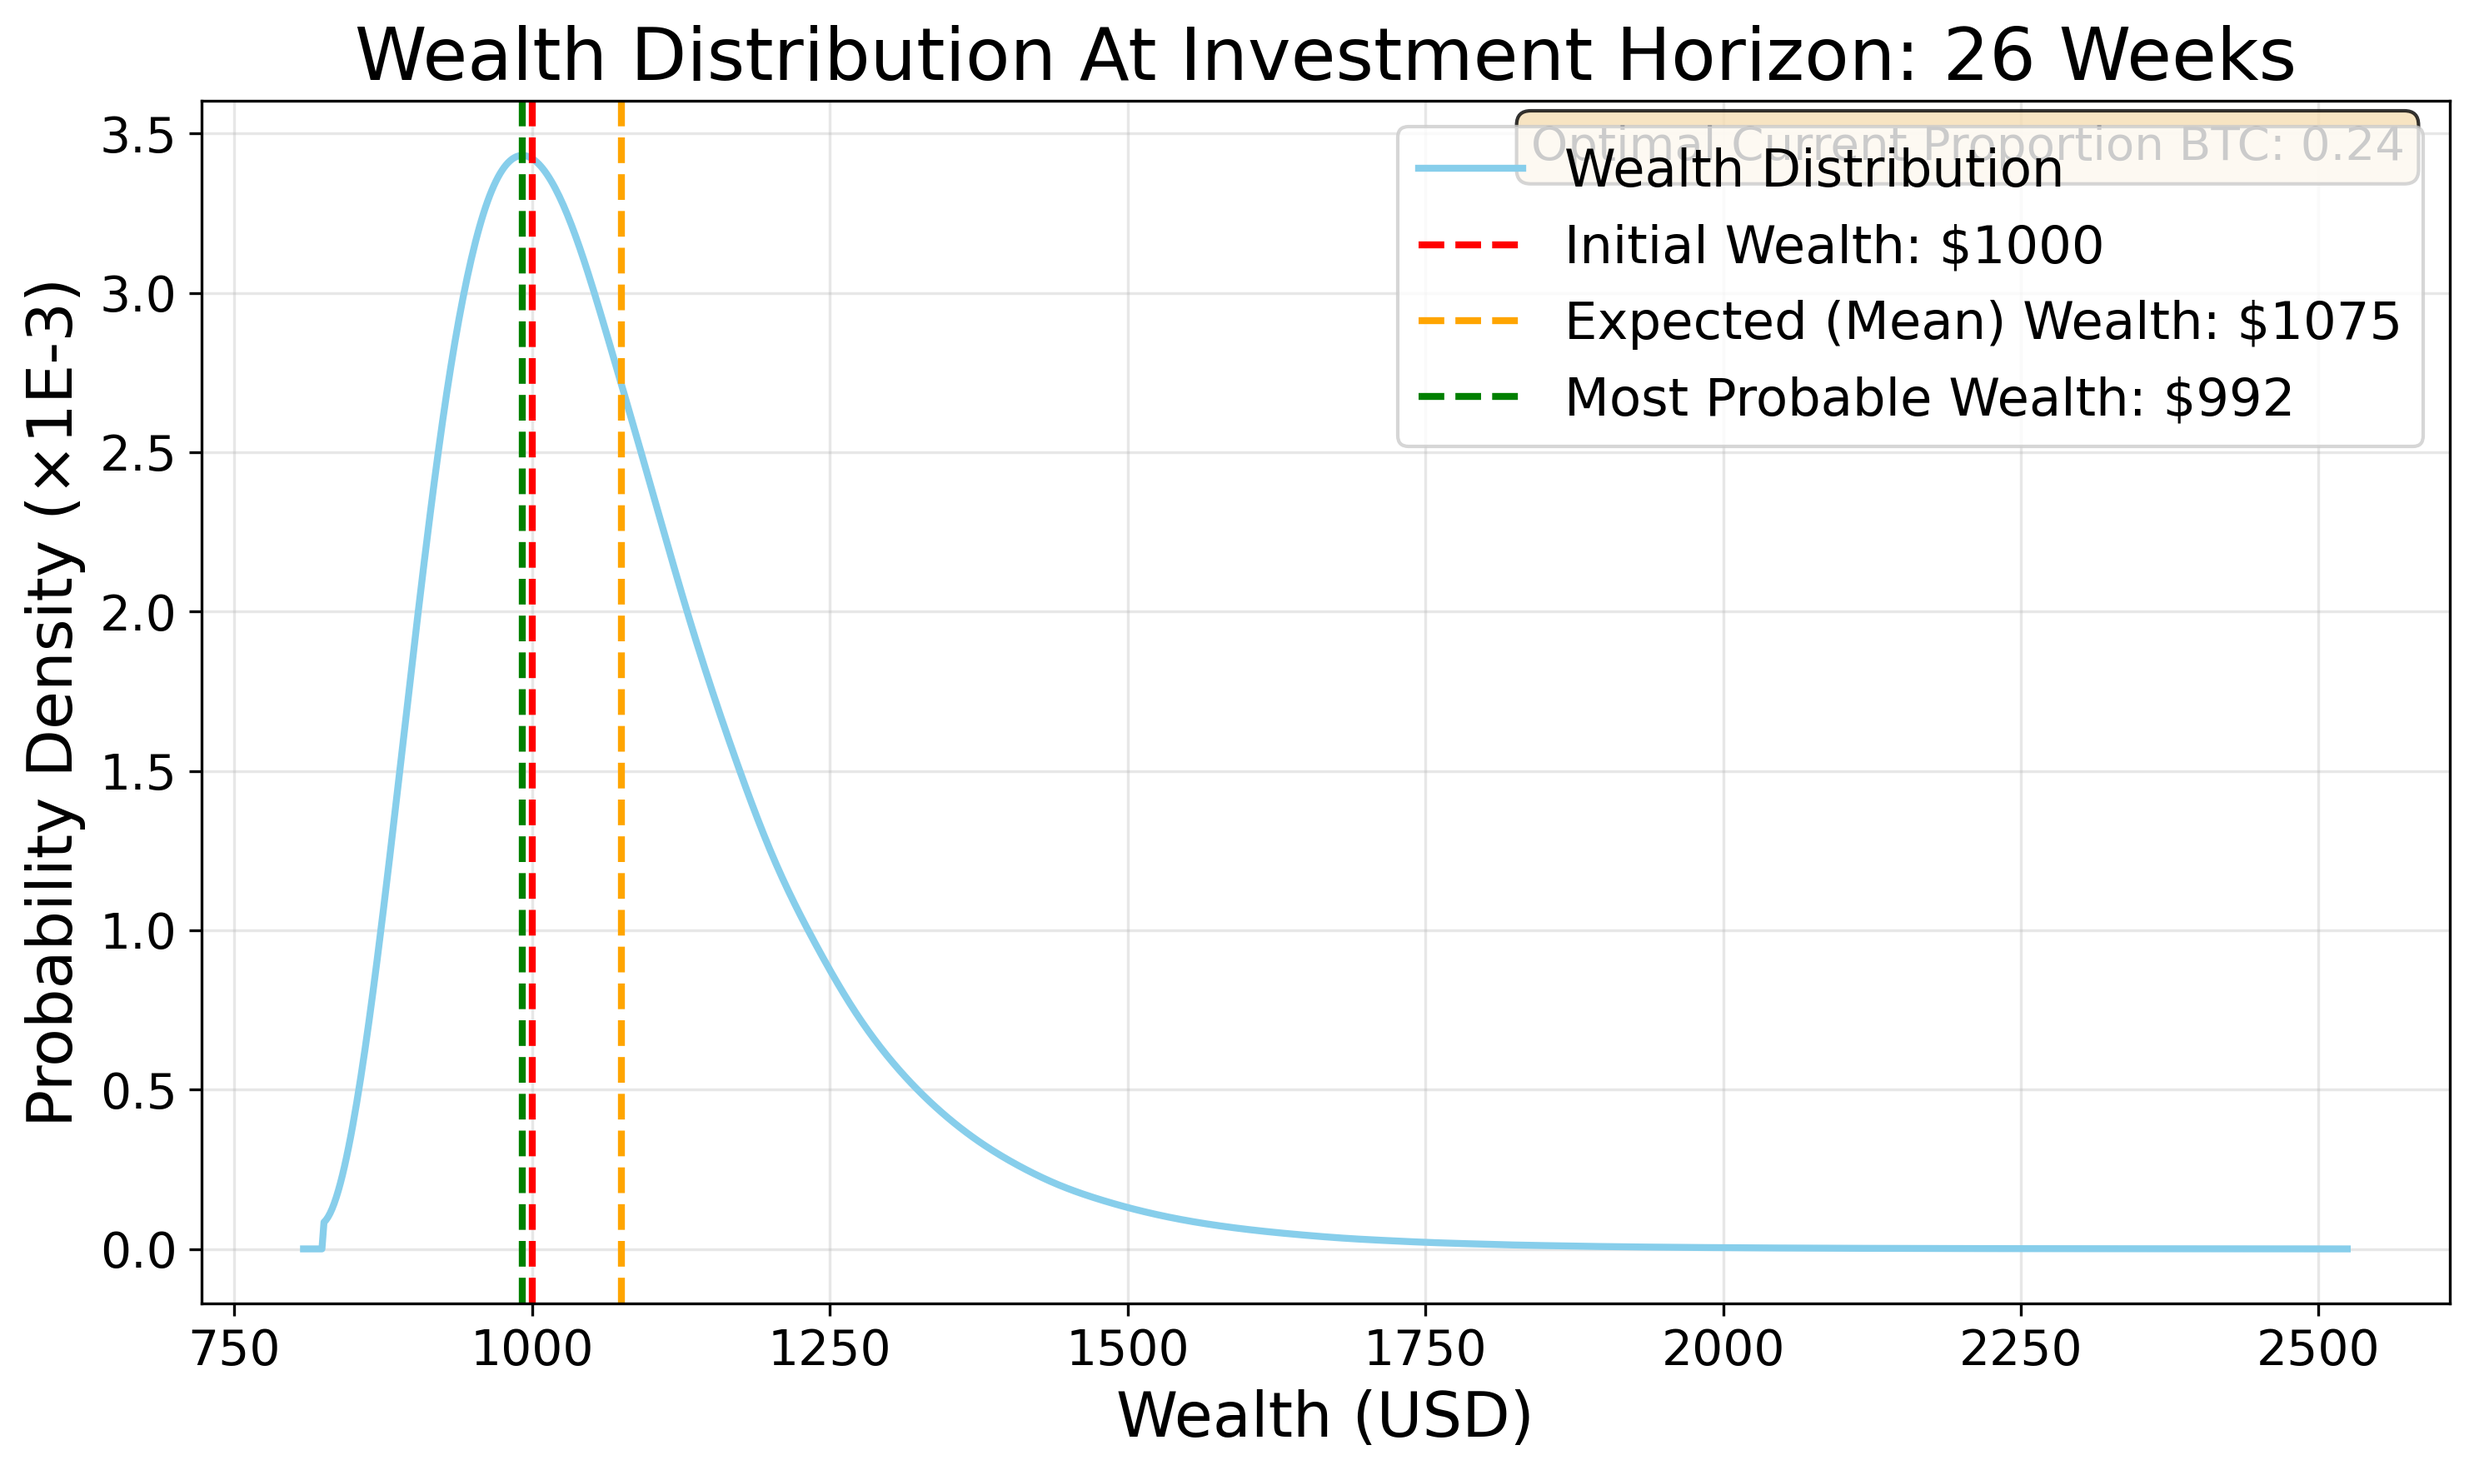
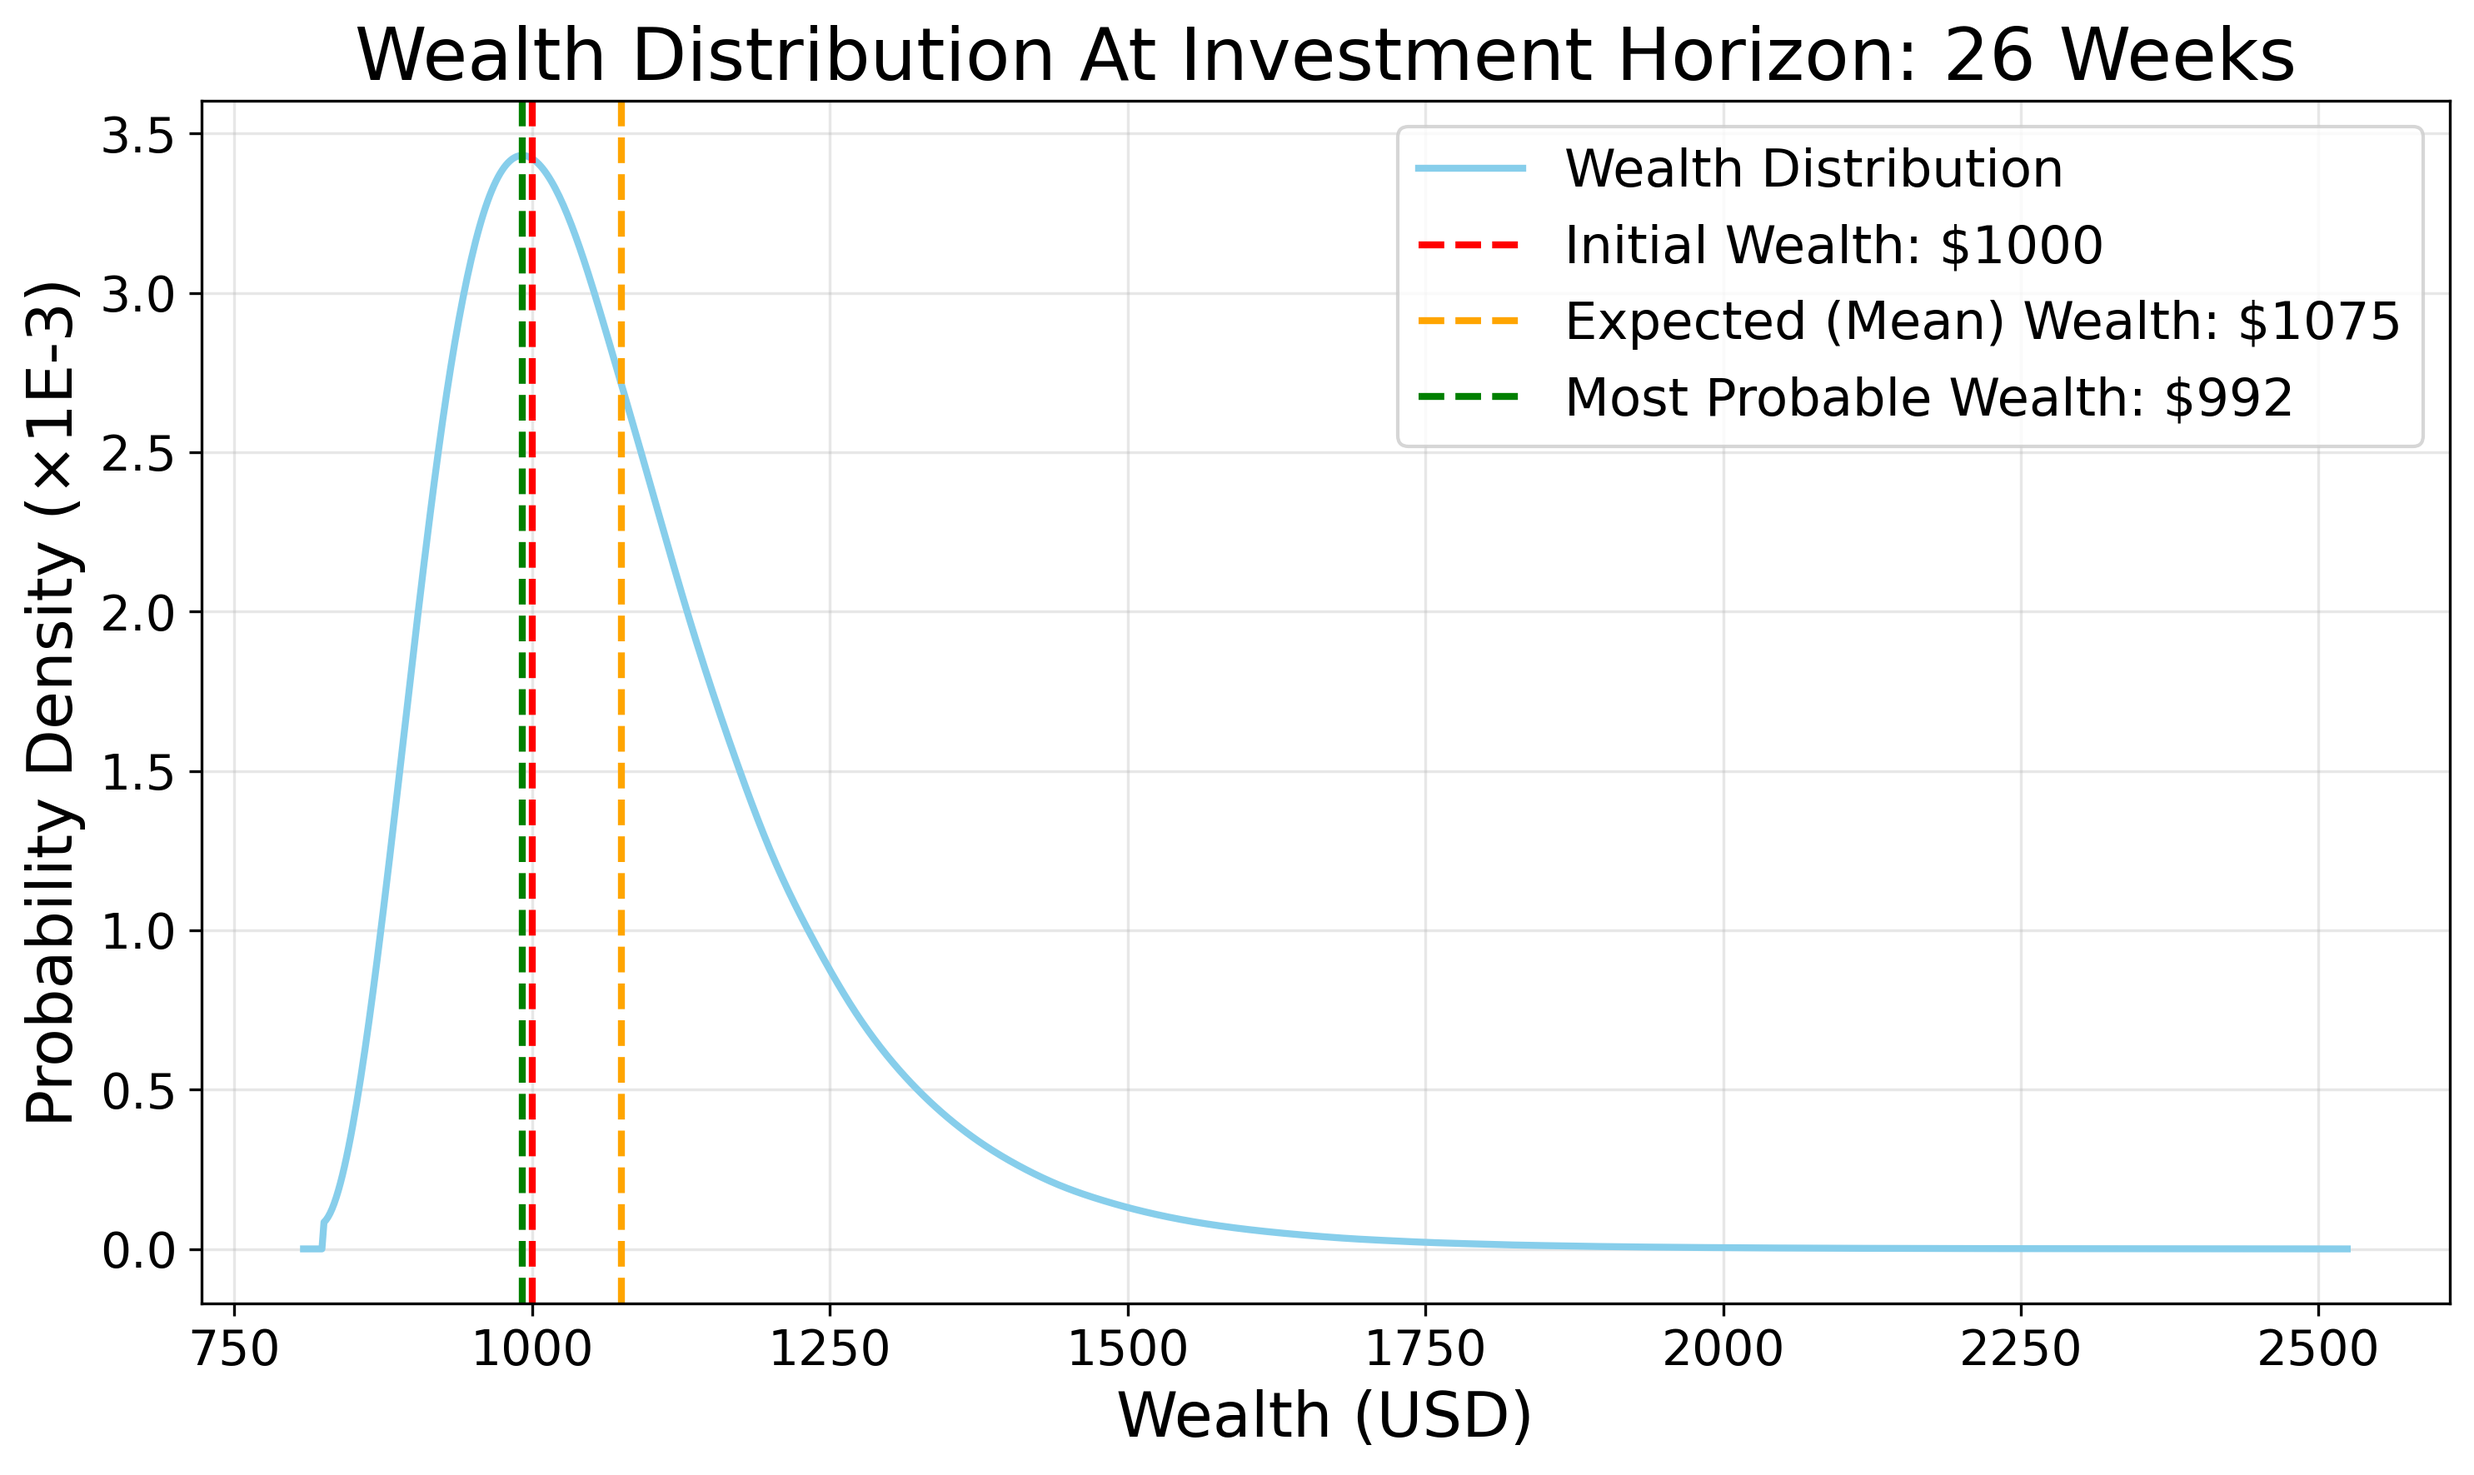
legend (#8)

Changed region(s): [[0.6195, 0.0621, 0.9912, 0.1242]]

diff --git a/d_optimise_portfolio/plot_figures.py b/d_optimise_portfolio/plot_figures.py
@@ -240,12 +240,12 @@ def plot_final_wealth_distribution(mu_seq, sigma_seq, current_log_price, optimal
     else:
         va = 'bottom'
     
-    plt.text(
-        x_pos, y_pos,
-        f'Optimal Current Proportion BTC: {round(optimal_p[0], 2)}',
-        transform=ax.transAxes, verticalalignment=va, horizontalalignment=ha,
-        bbox=dict(boxstyle='round', facecolor='wheat', alpha=0.8), fontsize=13.5
-    )
+    # plt.text(
+    #     x_pos, y_pos,
+    #     f'Optimal Current Proportion BTC: {round(optimal_p[0], 2)}',
+    #     transform=ax.transAxes, verticalalignment=va, horizontalalignment=ha,
+    #     bbox=dict(boxstyle='round', facecolor='wheat', alpha=0.8), fontsize=13.5
+    # )
     
     plt.tight_layout()
     plt.savefig(os.path.join(PLOT_PATH, "final_wealth_distribution.png"), dpi=300, bbox_inches='tight')

diff --git a/d_optimise_portfolio/config.py b/d_optimise_portfolio/config.py
@@ -22,7 +22,7 @@ class Config:
     step_threshold: float = 1100
     step_steepness: float = 100.0
 
-    risk_aversion_ceiling: float = 950  # Only used if preference_curve is 'log_risk_averse'
+    risk_aversion_ceiling: float = 2000  # Only used if preference_curve is 'log_risk_averse'
 
     horizon_weeks: int = 26
     rebalance_every: int = 26  # weeks

diff --git a/README.md b/README.md
@@ -101,7 +101,7 @@ The Gaussian Process model predicts the following distribution for the BTC price
 
 _Figure 1: Predicted BTC Price Distribution_
 
-Jimmy is saving up to buy a new laptop for university in 6 months time. We will consider 3 different scenarios of different laptop prices. He has an initial wealth of $1000 (£746), and wants to reach a target wealth equal to the laptop price. Once he reaches this target, he has no further need for more money. The further he falls short of this target, the more he will need to work at his part-time job to make up the shortfall.
+Meet Jimmy, who is saving up to buy a new laptop for university in 26 weeks time. We will consider 3 different scenarios of different laptop prices. He has an initial wealth of $1000 (£746), and wants to reach a target wealth equal to the laptop price. Once he reaches this target, we will assume he has no further need for more money. The further he falls short of this target, the more he will need to work at his part-time job to make up the shortfall.
 
 Therefore his subjective preference curve increases as wealth approaches the price of the laptop, but flattens out after that point as he has no further need for more money, as shown in Figure 2.
 
@@ -114,13 +114,13 @@ With a laptop price of $2000, Jimmy is far from his goal with an initial wealth 
 
 _Figure 2: Preference Curve for Case 1_
 
-Since the general market trend is predicted to be upwards, the odds are good that he will make a positive return on whatever he invests, so the utility is maximised by going all-in on BTC (100% allocation), as shown in Figure 3.
+Since the market is generally predicted to rise, its more likely than not that he will make a positive return on whatever he invests. So, the utility is maximised by going all-in on BTC (100% allocation), as shown in Figure 3.
 
 ![Figure 3: Expected Utility vs BTC Allocation for Case 1](figures/allocation_vs_utility_2000.png)
 
 _Figure 3: Expected Utility vs BTC Allocation for Case 1_
 
-The expected wealth distribution of this strategy after 6 months is shown in Figure 4.
+The expected wealth distribution of this strategy after 26 weeks is shown in Figure 4.
 
 ![Figure 4: Expected Final Wealth Distribution for Case 1](figures/final_wealth_distribution_2000.png)
 
@@ -138,7 +138,7 @@ In this case, there is no need to take on excessive risk, so the optimal strateg
 ![Figure 6: Expected Utility vs BTC Allocation for Case 2](figures/allocation_vs_utility_1100.png)
 _Figure 6: Expected Utility vs BTC Allocation for Case 2_
 
-The expected wealth distribution of this strategy after 6 months is shown in Figure 7.
+The expected wealth distribution of this strategy after 26 weeks is shown in Figure 7.
 
 ![Figure 7: Expected Final Wealth Distribution for Case 2](figures/final_wealth_distribution_1100.png)
 _Figure 7: Expected Final Wealth Distribution for Case 2_
@@ -158,7 +158,7 @@ Therefore the optimal strategy is to allocate 0% of the portfolio to BTC, as sho
 ![Figure 9: Expected Utility vs BTC Allocation for Case 3](figures/allocation_vs_utility_950.png)
 _Figure 9: Expected Utility vs BTC Allocation for Case 3_
 
-The expected wealth distribution of this strategy after 6 months is shown in Figure 10. Note that it has no chance of increasing or decreasing since the portfolio is held entirely in cash.
+The expected wealth distribution of this strategy after 26 weeks is shown in Figure 10. Note that it has no chance of increasing or decreasing since the portfolio is held entirely in cash.
 
 ![Figure 10: Expected Final Wealth Distribution for Case 3](figures/final_wealth_distribution_950.png)
 
